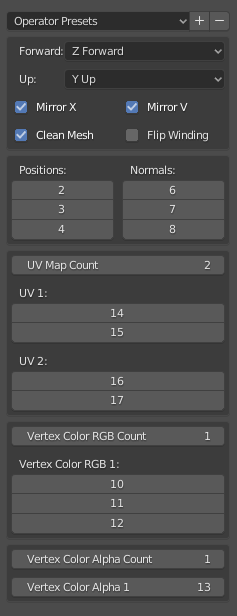
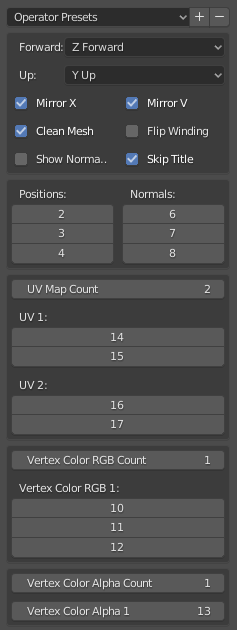
Added normalization options, option to skip first row

diff --git a/ImportCSV.py b/ImportCSV.py
@@ -14,7 +14,7 @@ from bpy.props import (
 bl_info = {
     "name": "CSV Importer",
     "author": "Puxtril",
-    "version": (1, 0, 0),
+    "version": (1, 1, 0),
     "blender": (2, 80, 0),
     "location": "File > Import-Export",
     "description": "Import CSV mesh dump",
@@ -54,6 +54,16 @@ class Import_CSV(bpy.types.Operator):
         description="Remove doubles and enable smooth shading",
         default=True,
     )
+    showNormalize: bpy.props.BoolProperty(
+        name="Show Normalize",
+        description="Show options to normalize input values",
+        default=False,
+    )
+    skipFirstRow: bpy.props.BoolProperty(
+        name="Skip Title",
+        description="Skip first row of the .csv file",
+        default=True,
+    )
     positionIndex: bpy.props.IntVectorProperty(
         name="Positions",
         description="Column numbers (0 indexed) of vertex positions",
@@ -69,6 +79,11 @@ class Import_CSV(bpy.types.Operator):
         min=0,
         soft_max=20,
         default=(6, 7, 8),
+    )
+    normalNormalize: bpy.props.IntProperty(
+        name="Normalize Normals",
+        description="Divide inputs by this number",
+        default=1
     )
 
 ########################################################################
@@ -89,6 +104,11 @@ class Import_CSV(bpy.types.Operator):
         soft_max=20,
         default=(14, 15),
     )
+    uvNormalize0: bpy.props.IntProperty(
+        name="Normalize UV 1",
+        description="Divide inputs by this number",
+        default=1
+    )
     uvIndex1: bpy.props.IntVectorProperty(
         name="UV 2",
         description="Column numbers (0 indexed) of UV map",
@@ -96,6 +116,11 @@ class Import_CSV(bpy.types.Operator):
         min=0,
         soft_max=20,
         default=(0, 0),
+    )
+    uvNormalize1: bpy.props.IntProperty(
+        name="Normalize UV 2",
+        description="Divide inputs by this number",
+        default=1
     )
     uvIndex2: bpy.props.IntVectorProperty(
         name="UV 3",
@@ -105,6 +130,11 @@ class Import_CSV(bpy.types.Operator):
         soft_max=20,
         default=(0, 0),
     )
+    uvNormalize2: bpy.props.IntProperty(
+        name="Normalize UV 3",
+        description="Divide inputs by this number",
+        default=1
+    )
     uvIndex3: bpy.props.IntVectorProperty(
         name="UV 4",
         description="Column numbers (0 indexed) of UV map",
@@ -113,6 +143,11 @@ class Import_CSV(bpy.types.Operator):
         soft_max=20,
         default=(0, 0),
     )
+    uvNormalize3: bpy.props.IntProperty(
+        name="Normalize UV 4",
+        description="Divide inputs by this number",
+        default=1
+    )
     uvIndex4: bpy.props.IntVectorProperty(
         name="UV 5",
         description="Column numbers (0 indexed) of UV map",
@@ -120,6 +155,11 @@ class Import_CSV(bpy.types.Operator):
         min=0,
         soft_max=20,
         default=(0, 0),
+    )
+    uvNormalize4: bpy.props.IntProperty(
+        name="Normalize UV 5",
+        description="Divide inputs by this number",
+        default=1
     )
 
 ########################################################################
@@ -140,6 +180,11 @@ class Import_CSV(bpy.types.Operator):
         soft_max=20,
         default=(10, 11, 12),
     )
+    color3Normalize0: bpy.props.IntProperty(
+        name="Normalize Color RGB 1",
+        description="Divide inputs by this number",
+        default=1
+    )
     color3Index1: bpy.props.IntVectorProperty(
         name="Vertex Color RGB 2",
         description="Column numbers (0 indexed) of Vertex Colors (RGB)",
@@ -147,6 +192,11 @@ class Import_CSV(bpy.types.Operator):
         min=0,
         soft_max=20,
         default=(0, 0, 0),
+    )
+    color3Normalize1: bpy.props.IntProperty(
+        name="Normalize Color RGB 2",
+        description="Divide inputs by this number",
+        default=1
     )
     color3Index2: bpy.props.IntVectorProperty(
         name="Vertex Color RGB 3",
@@ -156,6 +206,11 @@ class Import_CSV(bpy.types.Operator):
         soft_max=20,
         default=(0, 0, 0),
     )
+    color3Normalize2: bpy.props.IntProperty(
+        name="Normalize Colors RGB 3",
+        description="Divide inputs by this number",
+        default=1
+    )
     color3Index3: bpy.props.IntVectorProperty(
         name="Vertex Color RGB 4",
         description="Column numbers (0 indexed) of Vertex Colors (RGB)",
@@ -164,6 +219,11 @@ class Import_CSV(bpy.types.Operator):
         soft_max=20,
         default=(0, 0, 0),
     )
+    color3Normalize3: bpy.props.IntProperty(
+        name="Normalize Colors RGB 4",
+        description="Divide inputs by this number",
+        default=1
+    )
     color3Index4: bpy.props.IntVectorProperty(
         name="Vertex Color RGB 5",
         description="Column numbers (0 indexed) of Vertex Colors (RGB)",
@@ -171,6 +231,11 @@ class Import_CSV(bpy.types.Operator):
         min=0,
         soft_max=20,
         default=(0, 0, 0),
+    )
+    color3Normalize4: bpy.props.IntProperty(
+        name="Normalize Colors RGB 5",
+        description="Divide inputs by this number",
+        default=1
     )
 
 ########################################################################
@@ -190,12 +255,22 @@ class Import_CSV(bpy.types.Operator):
         soft_max=20,
         default=0,
     )
+    colorNormalize0: bpy.props.IntProperty(
+        name="Normalize Color Alpha 1",
+        description="Divide input by this number",
+        default=1
+    )
     colorIndex1: bpy.props.IntProperty(
         name="Vertex Color Alpha 2",
         description="Column number (0 indexed) of Vertex Color (Alpha)",
         min=0,
         soft_max=20,
         default=0,
+    )
+    colorNormalize1: bpy.props.IntProperty(
+        name="Normalize Color Alpha 2",
+        description="Divide input by this number",
+        default=1
     )
     colorIndex2: bpy.props.IntProperty(
         name="Vertex Color Alpha 3",
@@ -204,6 +279,11 @@ class Import_CSV(bpy.types.Operator):
         soft_max=20,
         default=0,
     )
+    colorNormalize2: bpy.props.IntProperty(
+        name="Normalize Color Alpha 3",
+        description="Divide input by this number",
+        default=1
+    )
     colorIndex3: bpy.props.IntProperty(
         name="Vertex Color Alpha 4",
         description="Column number (0 indexed) of Vertex Color (Alpha)",
@@ -211,12 +291,22 @@ class Import_CSV(bpy.types.Operator):
         soft_max=20,
         default=0,
     )
+    colorNormalize3: bpy.props.IntProperty(
+        name="Normalize Color Alpha 4",
+        description="Divide input by this number",
+        default=1
+    )
     colorIndex4: bpy.props.IntProperty(
         name="Vertex Color Alpha 5",
         description="Column number (0 indexed) of Vertex Color (Alpha)",
         min=0,
         soft_max=20,
         default=0,
+    )
+    colorNormalize4: bpy.props.IntProperty(
+        name="Normalize Color Alpha 5",
+        description="Divide input by this number",
+        default=1
     )
 
 ########################################################################
@@ -228,9 +318,10 @@ class Import_CSV(bpy.types.Operator):
             from_up=self.axis_up,
         ).to_4x4()
 
-        uvArgs = [self.uvIndex0, self.uvIndex1, self.uvIndex2, self.uvIndex3, self.uvIndex4,]
+        # Only parse what it shown in the importer UI
+        uvArgs = [self.uvIndex0, self.uvIndex1, self.uvIndex2, self.uvIndex3, self.uvIndex4]
         color3Args = [self.color3Index0, self.color3Index1, self.color3Index2, self.color3Index3, self.color3Index4]
-        colorArgs = [self.colorIndex0, self.colorIndex1, self.colorIndex2, self.colorIndex3, self.colorIndex4,]
+        colorArgs = [self.colorIndex0, self.colorIndex1, self.colorIndex2, self.colorIndex3, self.colorIndex4]
 
         verts, faces, normals, uvs, color3s, colors = importCSV(
             self.filepath,
@@ -242,9 +333,34 @@ class Import_CSV(bpy.types.Operator):
             self.mirrorVertX,
             self.mirrorUV,
             self.vertexOrder,
+            self.skipFirstRow,
         )
 
-        meshObj = createMesh(verts, faces, normals, uvs, color3s, colors, transformMatrix)
+        # Don't do anything if not shown
+        if self.showNormalize:
+            normalNormalizeArg = self.normalNormalize
+            uvsNormalizeArgs = [self.uvNormalize0, self.uvNormalize1, self.uvNormalize2, self.uvNormalize3, self.uvNormalize4]
+            color3sNormalizeArgs = [self.color3Normalize0, self.color3Normalize1, self.color3Normalize2, self.color3Normalize3, self.color3Normalize4]
+            colorsNormalizeArgs = [self.colorNormalize0, self.colorNormalize1, self.colorNormalize2, self.colorNormalize3, self.colorNormalize4]
+        else:
+            normalNormalizeArg = 1
+            uvsNormalizeArgs = [1, 1, 1, 1, 1]
+            color3sNormalizeArgs = [1, 1, 1, 1, 1]
+            colorsNormalizeArgs = [1, 1, 1, 1, 1]
+
+        meshObj = createMesh(
+            verts,
+            faces,
+            normals,
+            normalNormalizeArg,
+            uvs,
+            uvsNormalizeArgs[: self.uvCount],
+            color3s,
+            color3sNormalizeArgs[: self.color3Count],
+            colors,
+            colorsNormalizeArgs[: self.colorCount],
+            transformMatrix
+        )
 
         if self.cleanMesh:
             tempBmesh = bmesh.new()
@@ -272,26 +388,39 @@ class Import_CSV(bpy.types.Operator):
         row2 = generalBox.row()
         row2.prop(self, "cleanMesh")
         row2.prop(self, "vertexOrder")
+        row3 = generalBox.row()
+        row3.prop(self, "showNormalize")
+        row3.prop(self, "skipFirstRow")
 
         indexBox = self.layout.box()
         indexBoxRow = indexBox.row()
         indexBoxRow.column().prop(self, "positionIndex")
-        indexBoxRow.column().prop(self, "normalIndex")
+
+        normalColumn = indexBoxRow.column()
+        normalColumn.prop(self, "normalIndex")
+        if self.showNormalize:
+            normalColumn.prop(self, "normalNormalize")
 
         uvBox = self.layout.box()
         uvBox.prop(self, "uvCount")
         for i in range(self.uvCount):
             uvBox.prop(self, f"uvIndex{i}")
+            if self.showNormalize:
+                uvBox.prop(self, f"uvNormalize{i}")
 
         color3Box = self.layout.box()
         color3Box.prop(self, "color3Count")
         for i in range(self.color3Count):
             color3Box.prop(self, f"color3Index{i}")
+            if self.showNormalize:
+                color3Box.prop(self, f"color3Normalize{i}")
 
         colorBox = self.layout.box()
         colorBox.prop(self, "colorCount")
         for i in range(self.colorCount):
             colorBox.prop(self, f"colorIndex{i}")
+            if self.showNormalize:
+                colorBox.prop(self, f"colorNormalize{i}")
 
 
 def importCSV(
@@ -304,6 +433,7 @@ def importCSV(
     mirrorVertX: bool,
     mirrorUV: bool,
     flipVertOrder: bool,
+    skipFirstRow: bool,
 ):
     # list<tuple3<float>>
     vertices = []
@@ -328,7 +458,9 @@ def importCSV(
 
     with open(filepath) as f:
         reader = csv.reader(f)
-        next(reader)
+
+        if skipFirstRow:
+            next(reader)
 
         curFace = []
         for rowIndex, row in enumerate(reader):
@@ -386,33 +518,51 @@ def importCSV(
         return vertices, faces, normals, uvs, color3s, colors
 
 
-def createMesh(vertices, faces, normals, uvs, color3s, colors, transformMatrix):
+def createMesh(
+    vertices: list,
+    faces: list,
+    normals: list,
+    normalNormalize: int,
+    uvs: list,
+    uvsNormalize: list,
+    color3s: list,
+    color3sNormalize: list,
+    colors: list,
+    colorsNormalize: list,
+    transformMatrix
+):
     mesh = bpy.data.meshes.new("name")
     mesh.from_pydata(vertices, [], faces)
 
     # Normals
     for vertexIndex in range(len(mesh.vertices)):
-        mesh.vertices[vertexIndex].normal = normals[vertexIndex]
+        curNormal = normals[vertexIndex]
+        curNormalNorm = list(map(lambda x: x / normalNormalize, curNormal)) # Bad variable name, I know...
+        mesh.vertices[vertexIndex].normal = curNormalNorm
 
     # UV Maps
     for uvIndex in range(len(uvs)):
         uvLayer = mesh.uv_layers.new(name=f"UV{uvIndex}")
         for vertexIndex in range(len(uvLayer.data)):
-            uvLayer.data[vertexIndex].uv = uvs[uvIndex][vertexIndex]
+            curUVs = uvs[uvIndex][vertexIndex]
+            curUVsNorm = list(map(lambda x: x / uvsNormalize[uvIndex], curUVs))
+            uvLayer.data[vertexIndex].uv = curUVsNorm
 
     # Vertex Colors3
     for color3Index in range(len(color3s)):
         color3Layer = mesh.vertex_colors.new(name=f"rgb{color3Index}")
         for vertexIndex in range(len(color3Layer.data)):
             curCol3 = color3s[color3Index][vertexIndex]
-            color3Layer.data[vertexIndex].color = [curCol3[0], curCol3[1], curCol3[2], 0]
+            curCol3Norm = list(map(lambda x: x / color3sNormalize[color3Index], curCol3))
+            color3Layer.data[vertexIndex].color = [curCol3Norm[0], curCol3Norm[1], curCol3Norm[2], 0]
 
     # Vertex Colors
     for colorIndex in range(len(colors)):
         colorLayer = mesh.vertex_colors.new(name=f"alpha{colorIndex}")
         for vertexIndex in range(len(colorLayer.data)):
             curCol = colors[colorIndex][vertexIndex]
-            colorLayer.data[vertexIndex].color = [curCol, curCol, curCol, 0]
+            curColNorm = curCol / colorsNormalize[colorIndex]
+            colorLayer.data[vertexIndex].color = [curColNorm, curColNorm, curColNorm, 0]
 
     obj = bpy.data.objects.new("name", mesh)
     obj.data.transform(transformMatrix)

diff --git a/README.md b/README.md
@@ -14,3 +14,7 @@ To install, download ImportCSV.py and install as a blender addon. *Do not clone 
 # Import Options Screenshot
 
 ![Import Options](images/Preview.png)
+
+In each category, specify the index (0-based) in the .csv for each column of data.
+
+Not pictured: the extra options when the "Show Normalize" is checked. This will add an extra field to each category that will divide input values by a number; "normalizing" the data.
